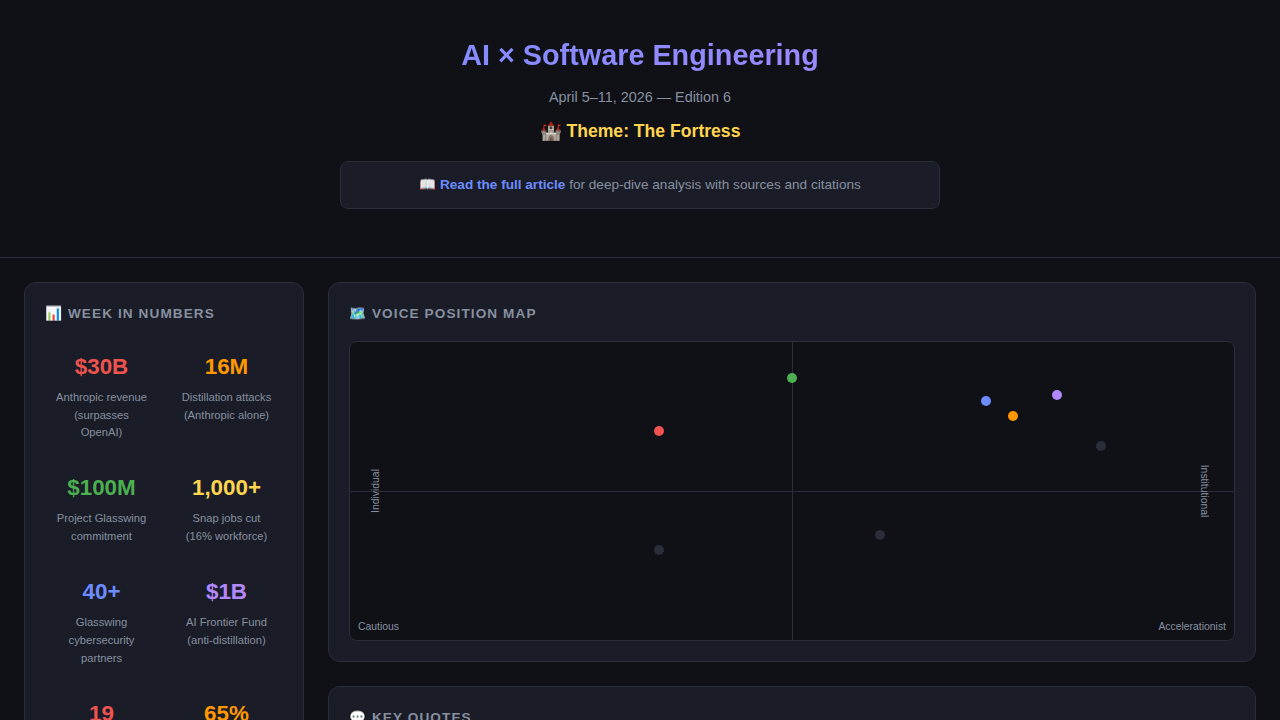
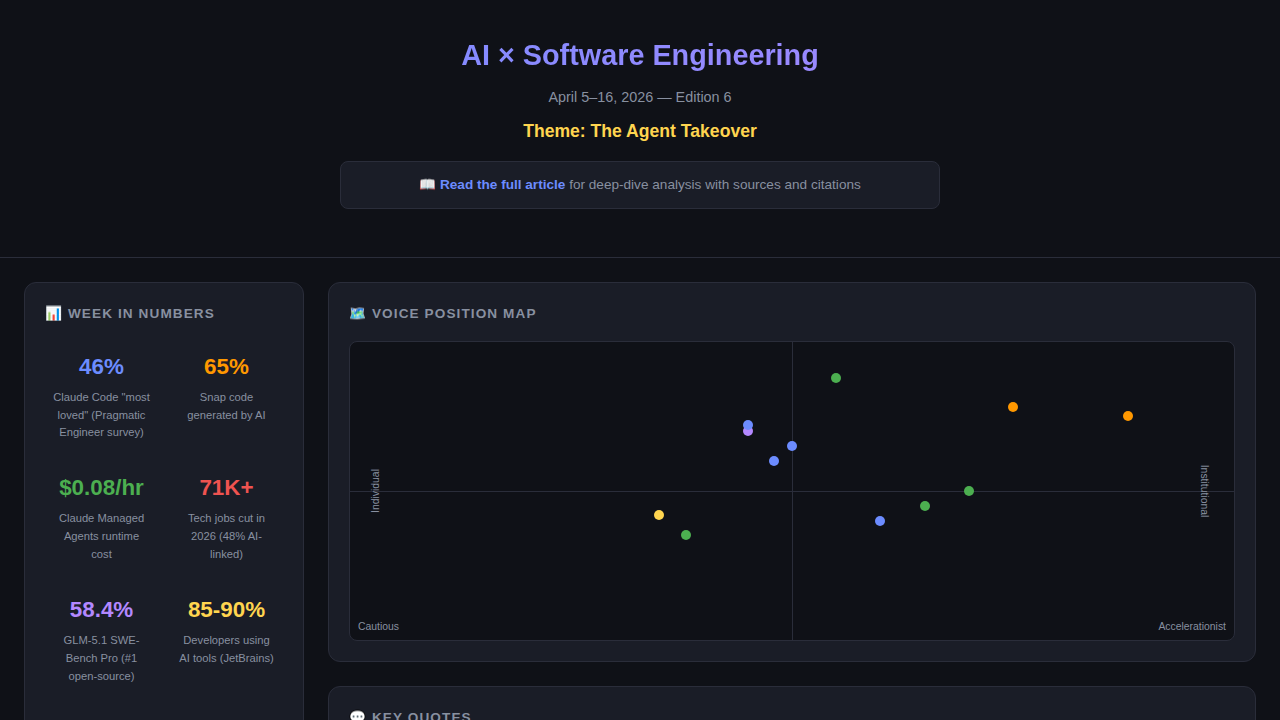
Update screenshot, rebuild index after comprehensive agent coverage expansion

diff --git a/README.md b/README.md
@@ -17,7 +17,7 @@ Deep research, interactive explorations, and tools at the intersection of AI and
 <!-- BEGIN PROJECTS -->
 | Project | Description | Live Demo | Words | Read Time | Status | Date |
 |---------|-------------|-----------|------:|-----------|--------|------|
-| [AI × Software Engineering — April 5–16, 2026](projects/9982-2026-04-11-ai-news-feed/) | **Previous edition:** [March 30 – April 4, 2026](../9983-2026-04-04-ai-news-feed/README.md) | [Explorer](https://agentiapt.github.io/agentia-research/projects/9982-2026-04-11-ai-news-feed/explorer.html) | 6.3k | 27 min | Draft | 2026-04-11 |
+| [AI × Software Engineering — April 5–16, 2026](projects/9982-2026-04-11-ai-news-feed/) | **Previous edition:** [March 30 – April 4, 2026](../9983-2026-04-04-ai-news-feed/README.md) | [Explorer](https://agentiapt.github.io/agentia-research/projects/9982-2026-04-11-ai-news-feed/explorer.html) | 8.6k | 37 min | Draft | 2026-04-11 |
 | [AI × Software Engineering — March 30 – April 4, 2026](projects/9983-2026-04-04-ai-news-feed/) | **Previous edition:** [March 22–29, 2026](../9984-2026-03-29-ai-news-feed/README.md) | [Explorer](https://agentiapt.github.io/agentia-research/projects/9983-2026-04-04-ai-news-feed/explorer.html) | 8.6k | 37 min | Complete | 2026-04-04 |
 | [AI × Software Engineering — March 22–29, 2026](projects/9984-2026-03-29-ai-news-feed/) | A curated, thematic feed tracking the voices, signals, and narratives shaping the intersection of AI and software engine... | [Explorer](https://agentiapt.github.io/agentia-research/projects/9984-2026-03-29-ai-news-feed/explorer.html) | 7.6k | 32 min | Complete | 2026-03-29 |
 | [AI × Software Engineering — March 14–21, 2026](projects/9985-2026-03-21-ai-news-feed/) | A curated, thematic feed tracking the voices, signals, and narratives shaping the intersection of AI and software engine... | [Explorer](https://agentiapt.github.io/agentia-research/projects/9985-2026-03-21-ai-news-feed/explorer.html) | 9.3k | 40 min | Complete | 2026-03-21 |

diff --git a/projects/README.md b/projects/README.md
@@ -6,7 +6,7 @@ Complete catalog of all research projects, newest first.
 
 | Project | Description | Live Demo | Words | Read Time | Status | Date |
 |---------|-------------|-----------|------:|-----------|--------|------|
-| [AI × Software Engineering — April 5–16, 2026](9982-2026-04-11-ai-news-feed/) | **Previous edition:** [March 30 – April 4, 2026](../9983-2026-04-04-ai-news-feed/README.md) | [Explorer](https://agentiapt.github.io/agentia-research/projects/9982-2026-04-11-ai-news-feed/explorer.html) | 6.3k | 27 min | Draft | 2026-04-11 |
+| [AI × Software Engineering — April 5–16, 2026](9982-2026-04-11-ai-news-feed/) | **Previous edition:** [March 30 – April 4, 2026](../9983-2026-04-04-ai-news-feed/README.md) | [Explorer](https://agentiapt.github.io/agentia-research/projects/9982-2026-04-11-ai-news-feed/explorer.html) | 8.6k | 37 min | Draft | 2026-04-11 |
 | [AI × Software Engineering — March 30 – April 4, 2026](9983-2026-04-04-ai-news-feed/) | **Previous edition:** [March 22–29, 2026](../9984-2026-03-29-ai-news-feed/README.md) | [Explorer](https://agentiapt.github.io/agentia-research/projects/9983-2026-04-04-ai-news-feed/explorer.html) | 8.6k | 37 min | Complete | 2026-04-04 |
 | [AI × Software Engineering — March 22–29, 2026](9984-2026-03-29-ai-news-feed/) | A curated, thematic feed tracking the voices, signals, and narratives shaping the intersection of AI and software engine... | [Explorer](https://agentiapt.github.io/agentia-research/projects/9984-2026-03-29-ai-news-feed/explorer.html) | 7.6k | 32 min | Complete | 2026-03-29 |
 | [AI × Software Engineering — March 14–21, 2026](9985-2026-03-21-ai-news-feed/) | A curated, thematic feed tracking the voices, signals, and narratives shaping the intersection of AI and software engine... | [Explorer](https://agentiapt.github.io/agentia-research/projects/9985-2026-03-21-ai-news-feed/explorer.html) | 9.3k | 40 min | Complete | 2026-03-21 |
